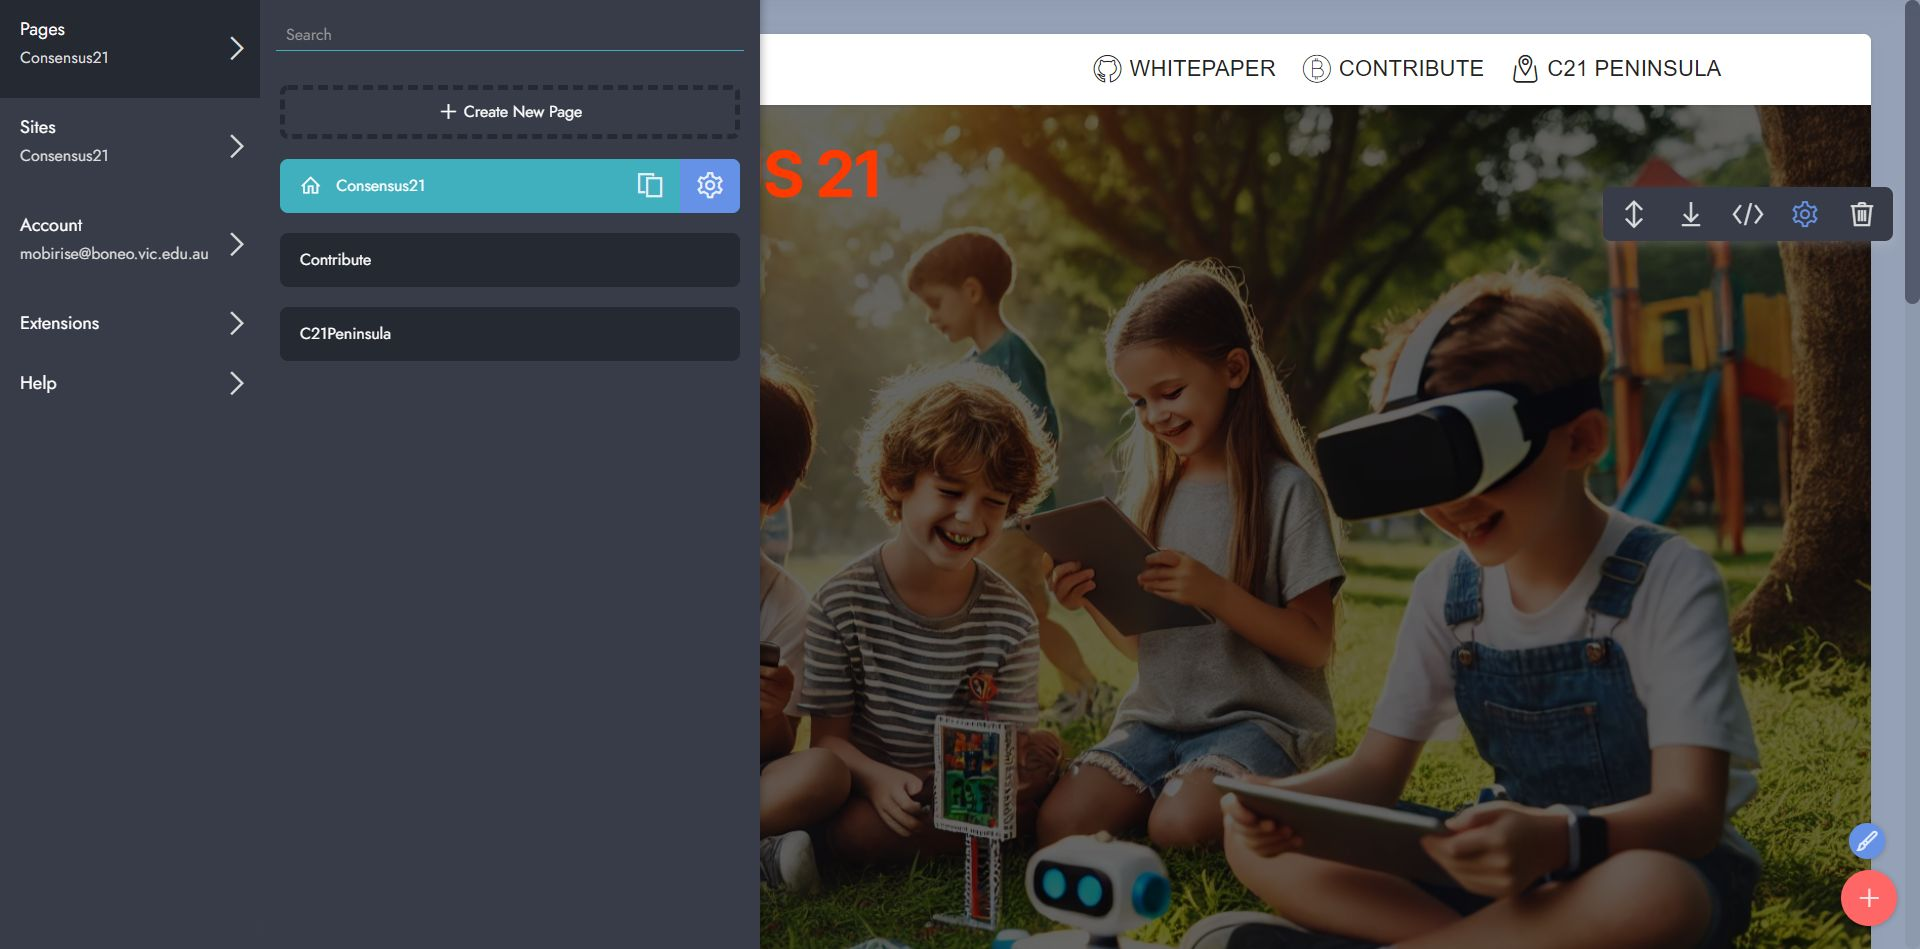
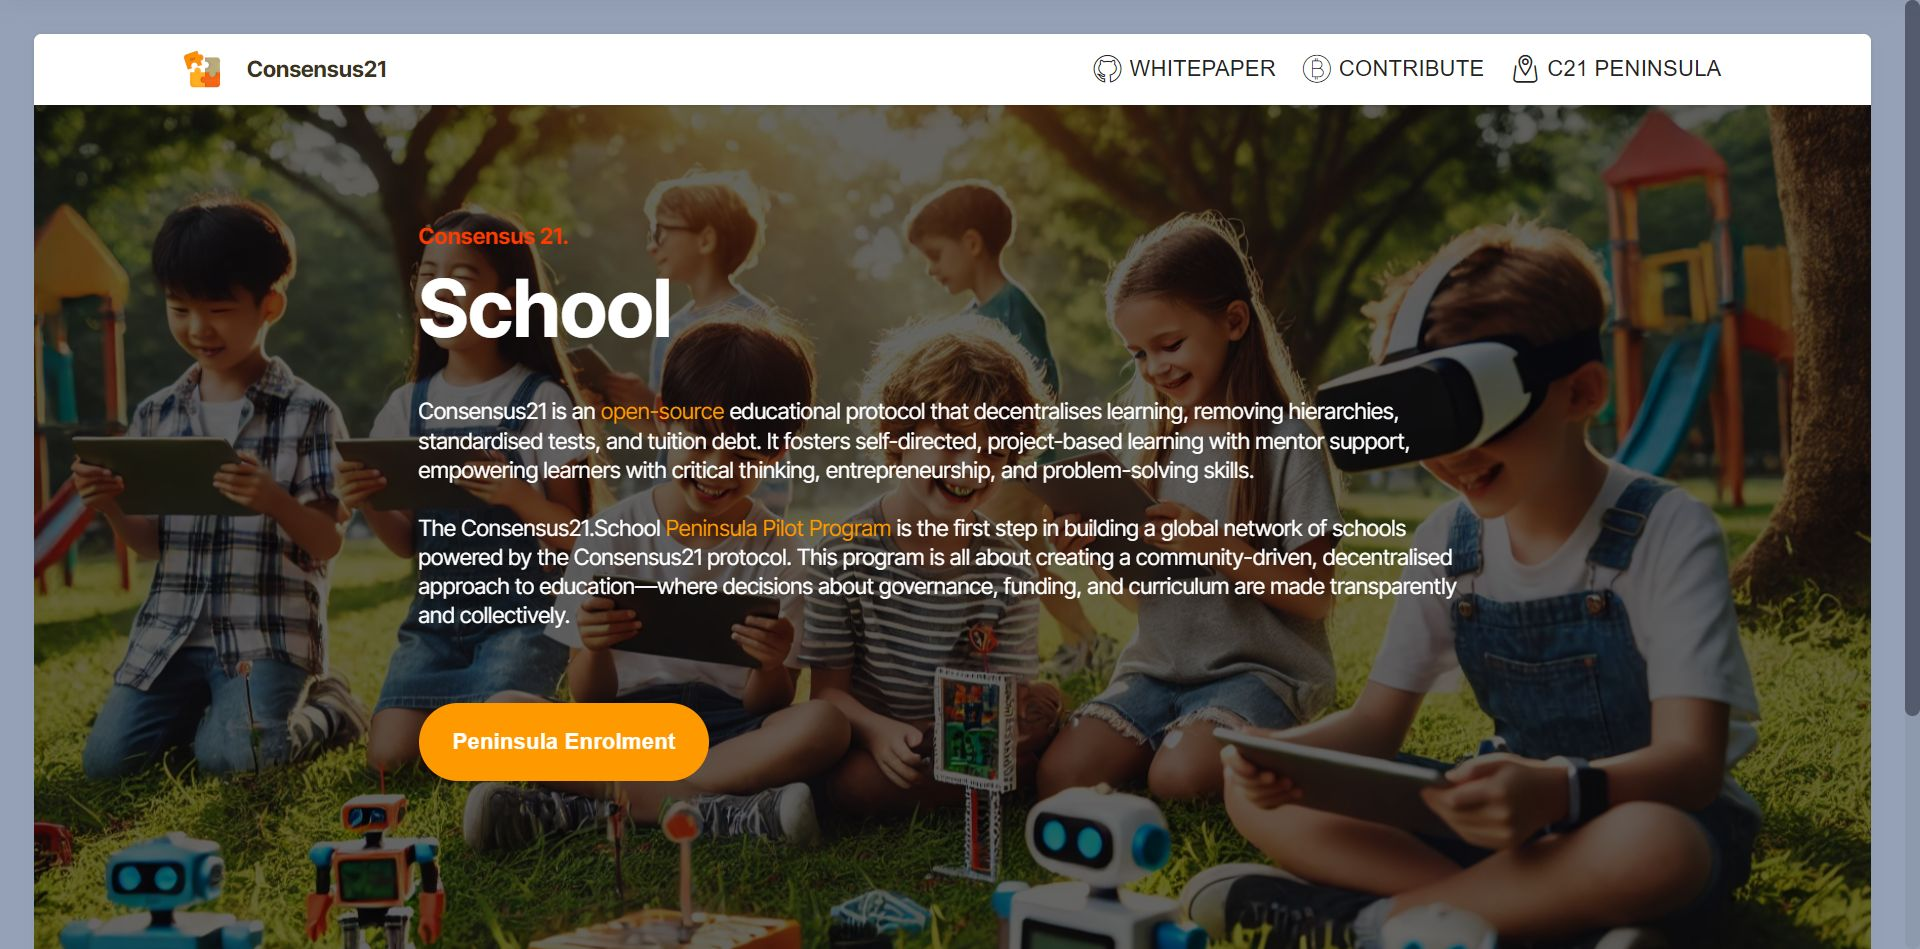
updates
uupdates

diff --git a/index.html b/index.html
@@ -26,7 +26,7 @@
   <link rel="stylesheet" href="assets/theme/css/style.css">
   <link rel="preload" href="https://fonts.googleapis.com/css?family=Inter+Tight:100,200,300,400,500,600,700,800,900,100i,200i,300i,400i,500i,600i,700i,800i,900i&display=swap" as="style" onload="this.onload=null;this.rel='stylesheet'">
   <noscript><link rel="stylesheet" href="https://fonts.googleapis.com/css?family=Inter+Tight:100,200,300,400,500,600,700,800,900,100i,200i,300i,400i,500i,600i,700i,800i,900i&display=swap"></noscript>
-  <link rel="preload" as="style" href="assets/mobirise/css/mbr-additional.css?v=znivpN"><link rel="stylesheet" href="assets/mobirise/css/mbr-additional.css?v=znivpN" type="text/css">
+  <link rel="preload" as="style" href="assets/mobirise/css/mbr-additional.css?v=sSzotZ"><link rel="stylesheet" href="assets/mobirise/css/mbr-additional.css?v=sSzotZ" type="text/css">
 
   
   
@@ -71,7 +71,7 @@
     
     
 
-    <div class="mbr-overlay" style="opacity: 0.6; background-color: rgb(0, 0, 0);"></div>
+    <div class="mbr-overlay" style="opacity: 0.8; background-color: rgb(0, 0, 0);"></div>
     <div class="align-center container">
         <div class="row justify-content-center">
             <div class="col-12 col-md-12 col-lg-10">

diff --git a/contribute.html b/contribute.html
@@ -22,7 +22,7 @@
   <link rel="stylesheet" href="assets/theme/css/style.css">
   <link rel="preload" href="https://fonts.googleapis.com/css?family=Inter+Tight:100,200,300,400,500,600,700,800,900,100i,200i,300i,400i,500i,600i,700i,800i,900i&display=swap" as="style" onload="this.onload=null;this.rel='stylesheet'">
   <noscript><link rel="stylesheet" href="https://fonts.googleapis.com/css?family=Inter+Tight:100,200,300,400,500,600,700,800,900,100i,200i,300i,400i,500i,600i,700i,800i,900i&display=swap"></noscript>
-  <link rel="preload" as="style" href="assets/mobirise/css/mbr-additional.css?v=wQZBFY"><link rel="stylesheet" href="assets/mobirise/css/mbr-additional.css?v=wQZBFY" type="text/css">
+  <link rel="preload" as="style" href="assets/mobirise/css/mbr-additional.css?v=8bBzS5"><link rel="stylesheet" href="assets/mobirise/css/mbr-additional.css?v=8bBzS5" type="text/css">
 
   
   

diff --git a/enrolment.html b/enrolment.html
@@ -22,7 +22,7 @@
   <link rel="stylesheet" href="assets/theme/css/style.css">
   <link rel="preload" href="https://fonts.googleapis.com/css?family=Inter+Tight:100,200,300,400,500,600,700,800,900,100i,200i,300i,400i,500i,600i,700i,800i,900i&display=swap" as="style" onload="this.onload=null;this.rel='stylesheet'">
   <noscript><link rel="stylesheet" href="https://fonts.googleapis.com/css?family=Inter+Tight:100,200,300,400,500,600,700,800,900,100i,200i,300i,400i,500i,600i,700i,800i,900i&display=swap"></noscript>
-  <link rel="preload" as="style" href="assets/mobirise/css/mbr-additional.css?v=SB7uZz"><link rel="stylesheet" href="assets/mobirise/css/mbr-additional.css?v=SB7uZz" type="text/css">
+  <link rel="preload" as="style" href="assets/mobirise/css/mbr-additional.css?v=Sn7894"><link rel="stylesheet" href="assets/mobirise/css/mbr-additional.css?v=Sn7894" type="text/css">
 
   
   

diff --git a/peninsula.html b/peninsula.html
@@ -22,7 +22,7 @@
   <link rel="stylesheet" href="assets/theme/css/style.css">
   <link rel="preload" href="https://fonts.googleapis.com/css?family=Inter+Tight:100,200,300,400,500,600,700,800,900,100i,200i,300i,400i,500i,600i,700i,800i,900i&display=swap" as="style" onload="this.onload=null;this.rel='stylesheet'">
   <noscript><link rel="stylesheet" href="https://fonts.googleapis.com/css?family=Inter+Tight:100,200,300,400,500,600,700,800,900,100i,200i,300i,400i,500i,600i,700i,800i,900i&display=swap"></noscript>
-  <link rel="preload" as="style" href="assets/mobirise/css/mbr-additional.css?v=Q5u6mj"><link rel="stylesheet" href="assets/mobirise/css/mbr-additional.css?v=Q5u6mj" type="text/css">
+  <link rel="preload" as="style" href="assets/mobirise/css/mbr-additional.css?v=5Kx0d1"><link rel="stylesheet" href="assets/mobirise/css/mbr-additional.css?v=5Kx0d1" type="text/css">
 
   
   

diff --git a/assets/mobirise/css/mbr-additional.css b/assets/mobirise/css/mbr-additional.css
@@ -1140,7 +1140,7 @@ a {
   }
 }
 .cid-uFh6VbtMAK {
-  background-image: url("../../../assets/images/df912135-b195-4ddc-8f45-0ba09c36edb8.webp");
+  background-image: url("../../../assets/images/download-1927x954.jpg");
 }
 .cid-uFh6VbtMAK .mbr-text,
 .cid-uFh6VbtMAK .mbr-section-btn {
